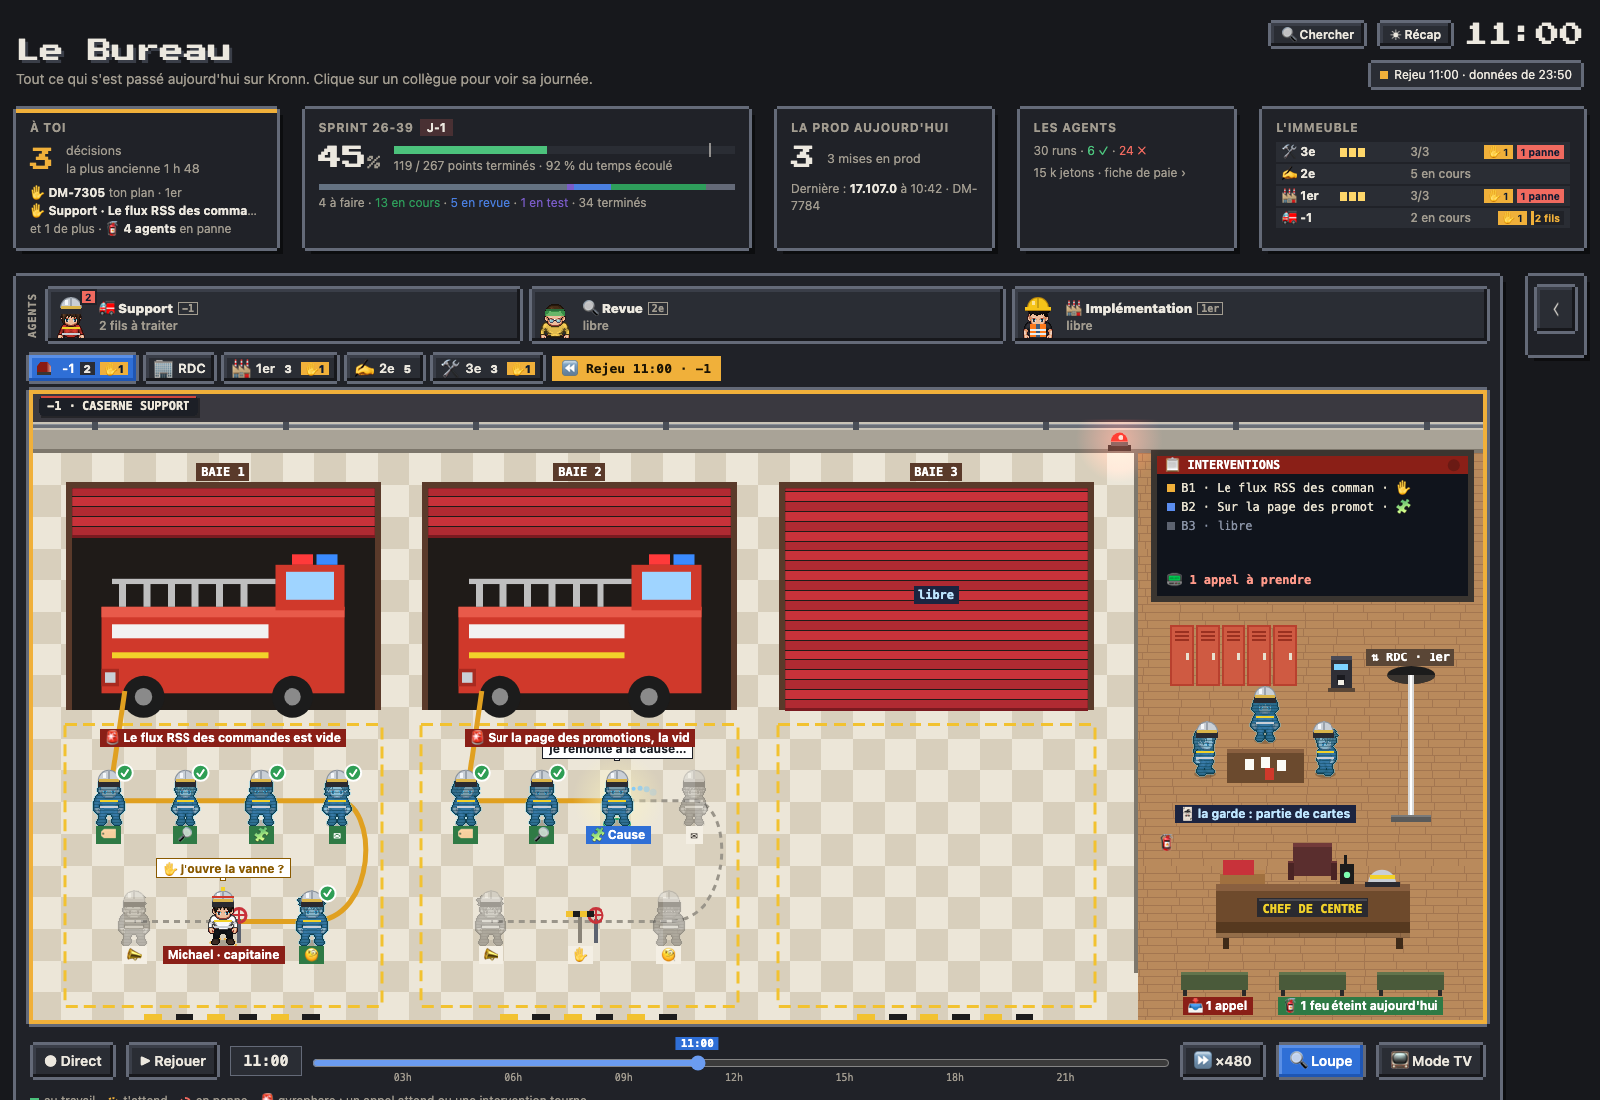
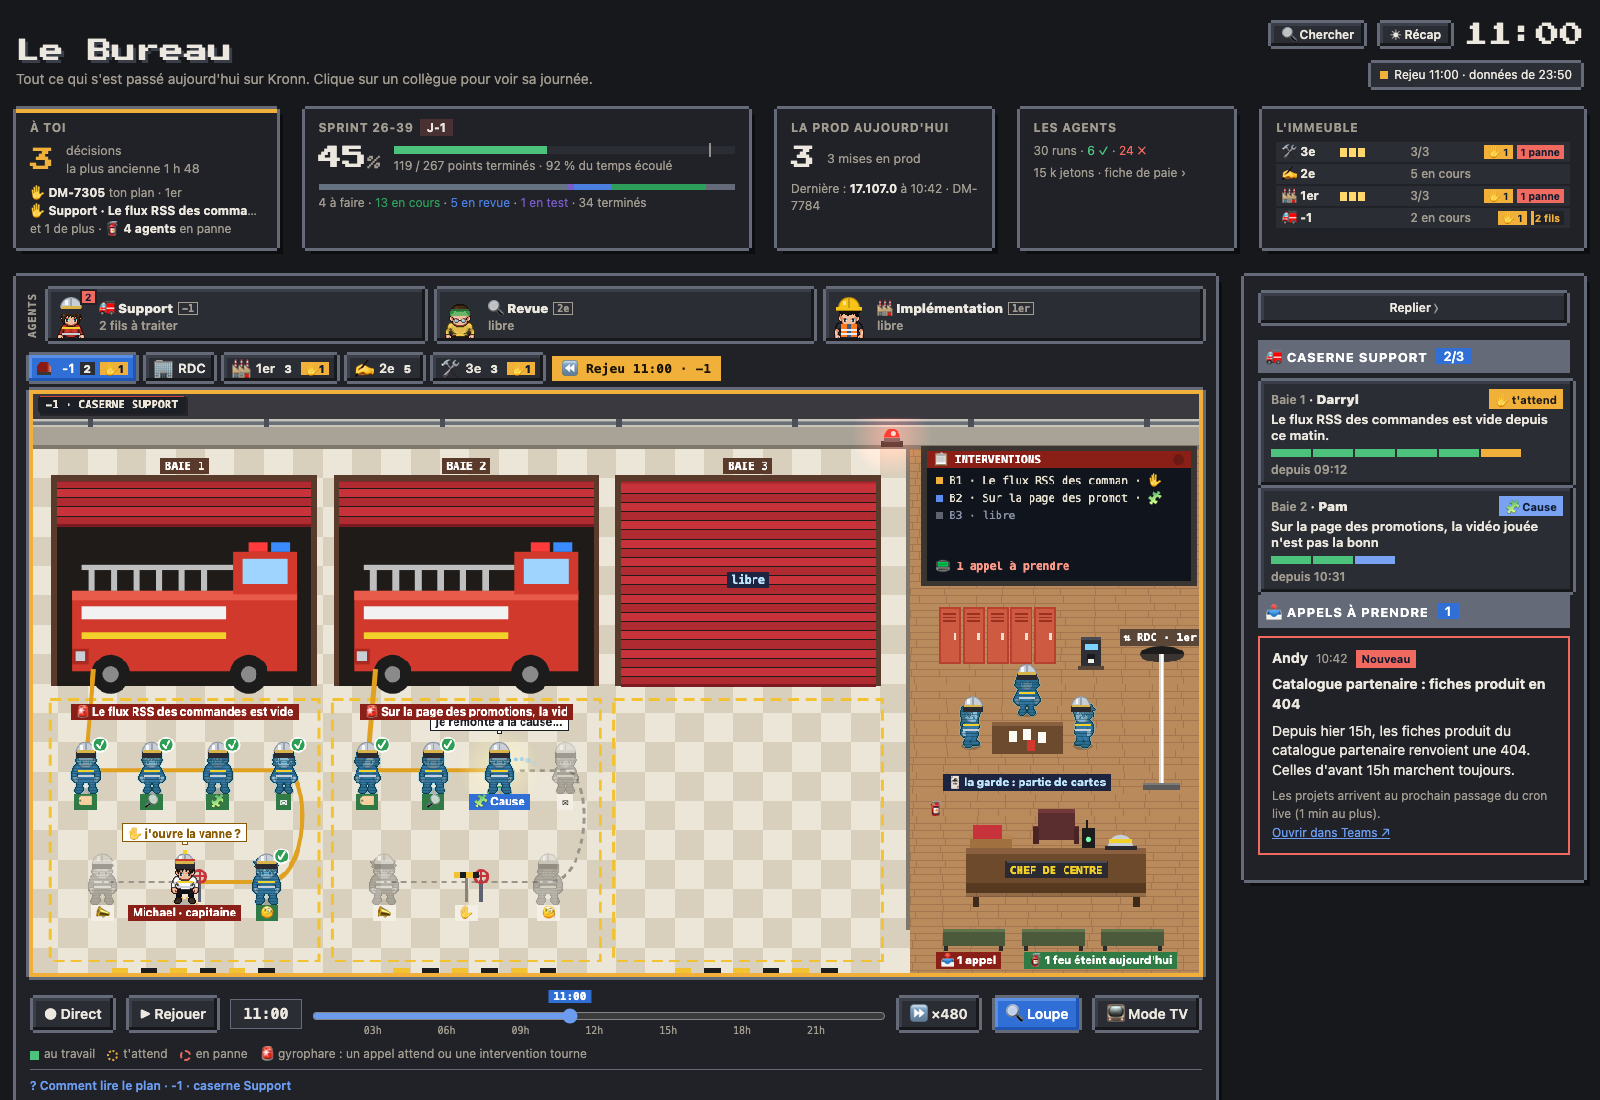
feat(etages): le -1 à 40 cases : baies de 9,4 cases, garde à partir de la case 30

diff --git a/page/src/68-caserne.js b/page/src/68-caserne.js
@@ -24,8 +24,8 @@ const CS_HELP={bar:()=>'<span class="lk"><i data-st="work"></i>au travail</span>
 // une rangée de baies et l'allée dessous : 20 rangées (AT_ROWS, 68-atelier.js) ; le bureau du chef de centre est dans la salle de
 // garde (le parquet, x ≥ 35 cases), centré, entre la partie de cartes et les lits de camp
 const CS_ROWS=20;AT_ROWS[-1]=CS_ROWS;
-const CS_BAYS=3, CS_BX=[1,12.25,23.5], CS_BW=10.25, CS_DY0=3.1, CS_DY1=10.1, CS_Z0=10.55, CS_Z1=19.45, CS_R1=13.65, CS_R2=17.45;
-const CS_DESK={x:40.5*AT_TS,y:16.35*AT_TS}, CS_POLE={x:43.6*AT_TS,y0:9*AT_TS,y1:13.4*AT_TS}, CS_TABLE={x:39*AT_TS,y:11.8*AT_TS};
+const CS_BAYS=3, CS_BX=[.6,10.2,19.8], CS_BW=9.4, CS_GX=30, CS_DY0=3.1, CS_DY1=10.1, CS_Z0=10.55, CS_Z1=19.45, CS_R1=13.65, CS_R2=17.45;
+const CS_DESK={x:(CS_GX*AT_TS+AT_W)/2,y:16.35*AT_TS}, CS_POLE={x:38.6*AT_TS,y0:9*AT_TS,y1:13.4*AT_TS}, CS_TABLE={x:34*AT_TS,y:11.8*AT_TS};
 const CS_COT_Y=18.7*AT_TS, CS_LBL_Y=19.55*AT_TS; // les lits de camp sous le bureau, et sous eux les étiquettes du chef
 const CS_DEP_MS=6.5e3; // la fin d'une intervention : le tuyau s'enroule, le camion rentre dans sa baie, le rideau se ferme sur lui
 // arrivée d'une équipe : le rideau se lève, le camion sort de la baie, les pompiers descendent la barre un par un puis
@@ -33,8 +33,8 @@ const CS_DEP_MS=6.5e3; // la fin d'une intervention : le tuyau s'enroule, le cam
 // la barre ; dans la salle de garde, ils longent le mur de droite (CS_SIDE) sans traverser le bureau du chef ni les lits.
 // Ordres choisis pour que personne ne traverse un autre : premier rang de gauche à droite, puis le second ; au
 // départ, le second rang d'abord, puis le premier de droite à gauche.
-const CS_LANE=(CS_Z1+.35)*AT_TS, CS_SIDE=45.2*AT_TS, CS_LEFT=35.8*AT_TS, CS_RUN=150, CS_WALK=105, CS_SLIDE=200, CS_GAP=1.1, CS_LEAVE_GAP=1.3;
-const CS_IN=[0,1,2,3,6,4], CS_OUT=[4,6,3,2,1,0], CS_PX=CS_POLE.x-12, CS_CUP={x:41.4*AT_TS,y:10.6*AT_TS};
+const CS_LANE=(CS_Z1+.35)*AT_TS, CS_SIDE=39.3*AT_TS, CS_LEFT=30.6*AT_TS, CS_RUN=150, CS_WALK=105, CS_SLIDE=200, CS_GAP=1.1, CS_LEAVE_GAP=1.3;
+const CS_IN=[0,1,2,3,6,4], CS_OUT=[4,6,3,2,1,0], CS_PX=CS_POLE.x-12, CS_CUP={x:36.2*AT_TS,y:10.6*AT_TS};
 const caserneOn=()=>supportOn();
 // les postes de l'investigation (sous-workflows support_*, CFG.support.postes_wf) : leurs runs ne passent pas au RDC
 const csWf=w=>!!w&&((CFG.support&&CFG.support.postes_wf)||[]).includes(String(w).slice(0,8));
@@ -149,7 +149,7 @@ function csDrawWalker(w,people,now){
 // chemin entre deux points par l'allée ; un point de la salle de garde la rejoint par un passage le long d'un mur (X : CS_LEFT,
 // le muret, pour le capitaine ; CS_SIDE, le mur de droite, pour l'agent d'entretien) : personne ne traverse le bureau ni les lits
 function csGuardPath(a,b,X){
-  const inGuard=p=>p.x>=35*AT_TS&&p.y<CS_LANE-.5*AT_TS, out=[{...a}];
+  const inGuard=p=>p.x>=CS_GX*AT_TS&&p.y<CS_LANE-.5*AT_TS, out=[{...a}];
   if(inGuard(a))out.push({x:X,y:a.y},{x:X,y:CS_LANE});else out.push({x:a.x,y:CS_LANE});
   if(inGuard(b))out.push({x:X,y:CS_LANE},{x:X,y:b.y});else out.push({x:b.x,y:CS_LANE});
   out.push({...b});return out;
@@ -159,17 +159,17 @@ const csTitle=t=>t.subject||String(t.text||'').split('\n')[0].slice(0,60);
 // ---------- géométrie d'une baie ----------
 function csGeo(b){
   const T=AT_TS, x0=CS_BX[b]*T, w=CS_BW*T, cx=x0+w/2;
-  const pts=CS_POSTES.map((p,j)=>j<4?{x:cx+(j-1.5)*2.4*T,y:CS_R1*T}:{x:cx+(1-(j-4))*2.8*T,y:CS_R2*T});
+  const pts=CS_POSTES.map((p,j)=>j<4?{x:cx+(j-1.5)*2.25*T,y:CS_R1*T}:{x:cx+(1-(j-4))*2.8*T,y:CS_R2*T});
   return {b,x0,w,cx,pts,door:{x:x0+.35*T,y:CS_DY0*T,w:w-.7*T,h:(CS_DY1-CS_DY0)*T},truck:{x:cx,y:(CS_DY1-.2)*T},hose:{x:cx-3.1*T,y:(CS_DY1-.6)*T}};
 }
 const CS_G=[0,1,2].map(csGeo);
 // ---------- décor ----------
 function csBackground(){ // sous-sol : murs de béton, tuyaux au plafond, sol de garage devant les baies, parquet de la salle de garde
   const c=document.createElement('canvas'), H_=CS_ROWS*AT_TS;c.width=AT_W;c.height=H_;const g=c.getContext('2d'), T=AT_TS;
-  for(let y=0;y<CS_ROWS;y++)for(let x=0;x<46;x++)drawFloor(g,x,y,x>=35?'wood':'tiles');
+  for(let y=0;y<CS_ROWS;y++)for(let x=0;x<AT_W/T;x++)drawFloor(g,x,y,x>=CS_GX?'wood':'tiles');
   R(g,0,0,AT_W,T,'#3a3940');R(g,0,T,AT_W,8,'#c9c4b8');R(g,0,T+8,AT_W,24,'#a9a397');R(g,0,T+28,AT_W,4,'#7d776c');
-  R(g,0,T+2,AT_W,4,'#6a6f78');R(g,0,T+2,AT_W,1,'#8a909a');for(let x=2;x<46;x+=6)R(g,x*T,T,6,8,'#4a4f58'); // tuyaux et colliers
-  R(g,35*T-4,2*T,4,CS_LANE-1.4*T-2*T,'#7d776c');if(CS_LANE+.6*T<H_)R(g,35*T-4,CS_LANE+.6*T,4,H_-CS_LANE-.6*T,'#7d776c'); // la salle de garde, séparée par un muret ouvert sur l'allée
+  R(g,0,T+2,AT_W,4,'#6a6f78');R(g,0,T+2,AT_W,1,'#8a909a');for(let x=2;x<AT_W/T;x+=6)R(g,x*T,T,6,8,'#4a4f58'); // tuyaux et colliers
+  R(g,CS_GX*T-4,2*T,4,CS_LANE-1.4*T-2*T,'#7d776c');if(CS_LANE+.6*T<H_)R(g,CS_GX*T-4,CS_LANE+.6*T,4,H_-CS_LANE-.6*T,'#7d776c'); // la salle de garde, séparée par un muret ouvert sur l'allée
   for(let b=0;b<CS_BAYS;b++){const z=CS_G[b];g.save();g.strokeStyle='#f2c230';g.lineWidth=3;g.setLineDash([12,7]);g.strokeRect(z.x0+4,CS_Z0*T,z.w-8,(CS_Z1-CS_Z0)*T);g.restore();
     for(let k=0;k<6;k++)R(g,z.cx-2.5*T+k*T,(CS_Z1+.25)*T,T*.55,6,k%2?'#1c1c1c':'#f2c230');} // bande devant la baie
   return c;
@@ -217,7 +217,7 @@ function csHose(z,st,L,fd){ // du camion au premier pompier, puis de main en mai
   const cur=CS_POSTES.findIndex(p=>st[p.k]&&st[p.k]!=='ok'), last=cur<0?CS_POSTES.length-1:cur, P=z.pts;
   const seg=(a,b,on)=>{if(!on&&fd<=0||on&&L<=0)return;ctx.save();ctx.strokeStyle=on?'#e0a020':'#9a958a';ctx.lineWidth=on?5:3;ctx.setLineDash(on?(L<1e4?[L,1e5]:[]):[6,5]);if(!on)ctx.globalAlpha=fd;ctx.beginPath();
     const p0=a<0?z.hose:{x:P[a].x,y:P[a].y-22};ctx.moveTo(p0.x,p0.y);
-    for(let j=a+1;j<=b;j++){const q={x:P[j].x,y:P[j].y-22};if(j===4)ctx.bezierCurveTo(z.cx+4.9*AT_TS,P[3].y-22,z.cx+4.9*AT_TS,P[4].y-22,q.x,q.y);else ctx.lineTo(q.x,q.y);}
+    for(let j=a+1;j<=b;j++){const q={x:P[j].x,y:P[j].y-22};if(j===4)ctx.bezierCurveTo(z.cx+4.3*AT_TS,P[3].y-22,z.cx+4.3*AT_TS,P[4].y-22,q.x,q.y);else ctx.lineTo(q.x,q.y);}
     ctx.stroke();ctx.restore();};
   seg(-1,last,true);if(last<CS_POSTES.length-1)seg(last,CS_POSTES.length-1,false);
 }
@@ -285,7 +285,7 @@ function csBay(slot,b,now,dt,people){
 function csLate(people,f,y){people.push([{pos:{x:0,y:y==null?1e6:y}},null,false,f]);}
 // ---------- la salle de garde et la barre de pompier ----------
 function csBoard(slots,now){ // le tableau des interventions, au mur de la salle de garde
-  const T=AT_TS, x=35.6*T, y=2.1*T, w=9.8*T, h=4.4*T;R(ctx,x-6,y-6,w+12,h+12,'#3a3530');R(ctx,x,y,w,h,'#10141c');R(ctx,x,y,w,18,'#8a1f17');
+  const T=AT_TS, x=30.6*T, y=2.1*T, w=9*T, h=4.4*T;R(ctx,x-6,y-6,w+12,h+12,'#3a3530');R(ctx,x,y,w,h,'#10141c');R(ctx,x,y,w,18,'#8a1f17');
   atTxt('📋 INTERVENTIONS',x+8,y+13,'#fff','bold 12px ui-monospace,Menlo,monospace','left');
   slots.forEach((s,b)=>{const c=!s?'#5d6370':s.dep?'#3fbf6a':s.s.k==='gate'?WAIT_BG:s.s.k==='failed'?'#e0614f':'#5b8def', cur=s&&!s.dep&&csCur(s.st||{});
     R(ctx,x+10,y+28+b*19,8,8,c);atTxt('B'+(b+1)+' · '+(!s?'libre':s.dep?(s.dep.posted?'feu éteint':'fin'):(csTitle(s.t).slice(0,22)+(cur?' · '+cur.i:''))),x+24,y+36+b*19,s?'#e8e2d0':'#8a93a6','12px ui-monospace,Menlo,monospace','left');});
@@ -308,8 +308,8 @@ function csCot(x,y,sleeper,k,now){ // lit de camp, et un pompier qui dort (casqu
 }
 function csGuard(now,people){ // la garde : aux cartes le jour, sur les lits de camp le soir et le week-end
   const T=AT_TS, {x,y}=CS_TABLE, open=atOpen();
-  csLockers(36*T,7.4*T,5);atCoffee(41.4*T,9.4*T);E('🧯',35.9*T,14.3*T,14);
-  for(let k=0;k<3;k++)csCot((37.4+k*3.1)*T,CS_COT_Y,!open,k,now);
+  csLockers(31*T,7.4*T,5);atCoffee(36.2*T,9.4*T);E('🧯',30.9*T,14.3*T,14);
+  for(let k=0;k<3;k++)csCot((32.2+k*2.7)*T,CS_COT_Y,!open,k,now);
   if(open){R(ctx,x-1.2*T,y-.5*T,2.4*T,1.1*T,'#6b4a2e');R(ctx,x-1.2*T,y-.5*T,2.4*T,4,'#8a6040');
     [[-20,-6],[-4,-8],[12,-5],[0,4]].forEach(([dx,dy],j)=>R(ctx,x+dx,y+dy,9,12,j===3?'#d0392b':'#fbfbf6'));
     [[-1.9,.3,'right'],[1.9,.3,'left'],[0,-.8,'down']].forEach(([dx,dy,dir],j)=>{const c=csPompier(30+j,x+dx*T,y+dy*T,'idle',dir);
@@ -323,7 +323,7 @@ function csWalkers(now,dt,people){for(const w of CS_MEM.walk){if(csStepW(w,dt))w
 // appel attend d'être pris ou qu'une intervention est en cours ; son faisceau balaie le sous-sol (REDUCED_MOTION : allumé, fixe)
 const csAlarm=()=>csCalls().length>0||csActive().length>0;
 function csBeacon(now){
-  const T=AT_TS, x=34.4*T, y=1.55*T, on=csAlarm();
+  const T=AT_TS, x=(CS_GX-.6)*T, y=1.55*T, on=csAlarm();
   R(ctx,x-12,y+6,24,6,'#3a3530');R(ctx,x-9,y+2,18,5,'#5a5a5a');
   ctx.fillStyle=on?'#e8302a':'#7a3a36';ctx.beginPath();ctx.arc(x,y+2,9,Math.PI,0);ctx.fill();
   if(!on)return;
@@ -390,9 +390,9 @@ function csCaptain(slots,now,dt,people){
 const CS_NIGHT={};
 function csNight(slots,people,now){
   const T_=AT_TS, open=atOpen(), walk=(CS_MEM.walk||[]).filter(w=>w.pos).map(w=>w.pos), lit=[...CS_LIT,...walk];
-  const rooms=CS_G.map((z,b)=>[CS_BX[b],CS_DY1,CS_BX[b]+CS_BW-1,Math.floor(CS_Z1),!!slots[b]]).concat([[35,2,45,CS_ROWS-1,open]]);
+  const rooms=CS_G.map((z,b)=>[CS_BX[b],CS_DY1,CS_BX[b]+CS_BW-1,Math.floor(CS_Z1),!!slots[b]]).concat([[CS_GX,2,AT_W/T_-1,CS_ROWS-1,open]]);
   floorNight(CS_NIGHT,{rooms,closed:!open,track:lit,spots:[...floorPeopleSpots(people),...lit.map(q=>({x:q.x,y:q.y-26,r:42,a:.95})),
-    floorBossLamp(CS_DESK.x,CS_DESK.y),{x:40.5*T_,y:CS_COT_Y,r:2.2*T_,a:.5,c:'rgba(255,190,120,.12)'}, // la veilleuse de la garde
+    floorBossLamp(CS_DESK.x,CS_DESK.y),{x:CS_DESK.x,y:CS_COT_Y,r:2.2*T_,a:.5,c:'rgba(255,190,120,.12)'}, // la veilleuse de la garde
     {x:CS_POLE.x,y:CS_POLE.y1-1.2*T_,r:2.2*T_,a:.6}]},now); // la barre
 }
 // ---------- le ménage du soir au -1 : après le 1er (atCleanVisit, 68-atelier.js), l'agent d'entretien descend la barre ----------
@@ -402,7 +402,7 @@ const CS_CLEAN_DUR=25*60e3;
 function csCleanVisit(c,t){const v=atCleanVisit(c,t-AT_CLEAN_DUR)||atCleanVisit(c,t);return v?{s:v.e,e:v.e+CS_CLEAN_DUR}:null;}
 function csCleanStops(){
   const T_=AT_TS, pole={x:CS_PX,y:CS_POLE.y1}, st=[{p:pole,room:'la barre'}];
-  CS_G.forEach((z,b)=>{const p={x:z.cx,y:CS_LANE};st.push({p,room:'la baie '+(b+1),sweep:[p,{x:z.cx-4.5*T_,y:CS_LANE},{x:z.cx+4.5*T_,y:CS_LANE},p]});});
+  CS_G.forEach((z,b)=>{const p={x:z.cx,y:CS_LANE};st.push({p,room:'la baie '+(b+1),sweep:[p,{x:z.cx-4*T_,y:CS_LANE},{x:z.cx+4*T_,y:CS_LANE},p]});});
   const g={x:CS_TABLE.x,y:CS_TABLE.y+1.6*T_};st.push({p:g,room:'la salle de garde',sweep:[g,{x:g.x-2*T_,y:g.y},{x:g.x+3*T_,y:g.y},g]});
   return st.concat([{p:pole,room:'la barre'}]);
 }
@@ -417,7 +417,7 @@ function csCleanerAt(c,t){
 function csTheme(now){
   const T_=AT_TS, y=CS_DY0*T_-4;
   if(themeIs('noel')){xmasTreeAt(CS_TABLE.x+2.6*T_,CS_TABLE.y+1.4*T_,now);
-    for(let k=0;k<40;k++){ctx.fillStyle=['#ff4a4a','#ffd84a','#4aff8a','#4ac8ff'][(k+Math.floor(now/500))%4];ctx.beginPath();ctx.arc(1.2*T_+k*(33.6*T_/39),y+Math.sin(k*.9)*3,3,0,7);ctx.fill();}}
+    for(let k=0;k<40;k++){ctx.fillStyle=['#ff4a4a','#ffd84a','#4aff8a','#4ac8ff'][(k+Math.floor(now/500))%4];ctx.beginPath();ctx.arc(1.2*T_+k*((CS_GX-2.4)*T_/39),y+Math.sin(k*.9)*3,3,0,7);ctx.fill();}}
   if(themeIs('halloween'))CS_G.forEach(z=>{E('🎃',z.cx-4.2*T_,(CS_DY1+.4)*T_,14);E('🎃',z.cx+4.2*T_,(CS_DY1+.4)*T_,14);});
   if(themeIs('nouvel-an')||themeIs('saint-valentin'))[[CS_TABLE.x-1.5*T_,CS_TABLE.y-2*T_],[CS_TABLE.x+3*T_,CS_TABLE.y-2*T_]].forEach(([x,yy],k)=>balloon(themeIs('nouvel-an')?'🎈':'💗',x,yy,now,k));
 }

diff --git a/tests/caserne.test.js b/tests/caserne.test.js
@@ -383,10 +383,10 @@ test('une seule rangée : le -1 fait 20 rangées ; le bureau du chef de centre e
   const {p, J} = page();
   p.run('SUPPORT = supportDemo(); setFloor(-1); renderCaserne(1000);');
   assert.equal(J('AT_ROWS[-1]'), 20);
-  assert.deepEqual(J('[cv.width, cv.height]'), [46 * 32, 20 * 32], 'la toile suit la hauteur de l\'étage');
+  assert.deepEqual(J('[cv.width, cv.height]'), [40 * 32, 20 * 32], 'la toile suit la hauteur de l\'étage, 40 cases de large comme le RDC');
   assert.equal(J('CS_BG.height'), 20 * 32, 'le fond aussi');
-  // le parquet : x ≥ 35 cases (csBackground) jusqu'au bord droit ; le bureau (112 px × CS_K) y tient en entier, centré
-  const d = J('({x: CS_DESK.x, y: CS_DESK.y, half: 56 * CS_K, x0: 35 * AT_TS, x1: AT_W})');
+  // le parquet : x ≥ CS_GX cases (csBackground) jusqu'au bord droit ; le bureau (112 px × CS_K) y tient en entier, centré
+  const d = J('({x: CS_DESK.x, y: CS_DESK.y, half: 56 * CS_K, x0: CS_GX * AT_TS, x1: AT_W})');
   assert.equal(d.x, (d.x0 + d.x1) / 2, 'centré sur le parquet');
   assert.ok(d.x - d.half >= d.x0 && d.x + d.half <= d.x1, 'posé sur le parquet, pas de carrelage sous lui');
   assert.ok(d.y > J('CS_TABLE.y') && d.y < J('CS_COT_Y'), 'sous la partie de cartes, au-dessus des lits de camp');
